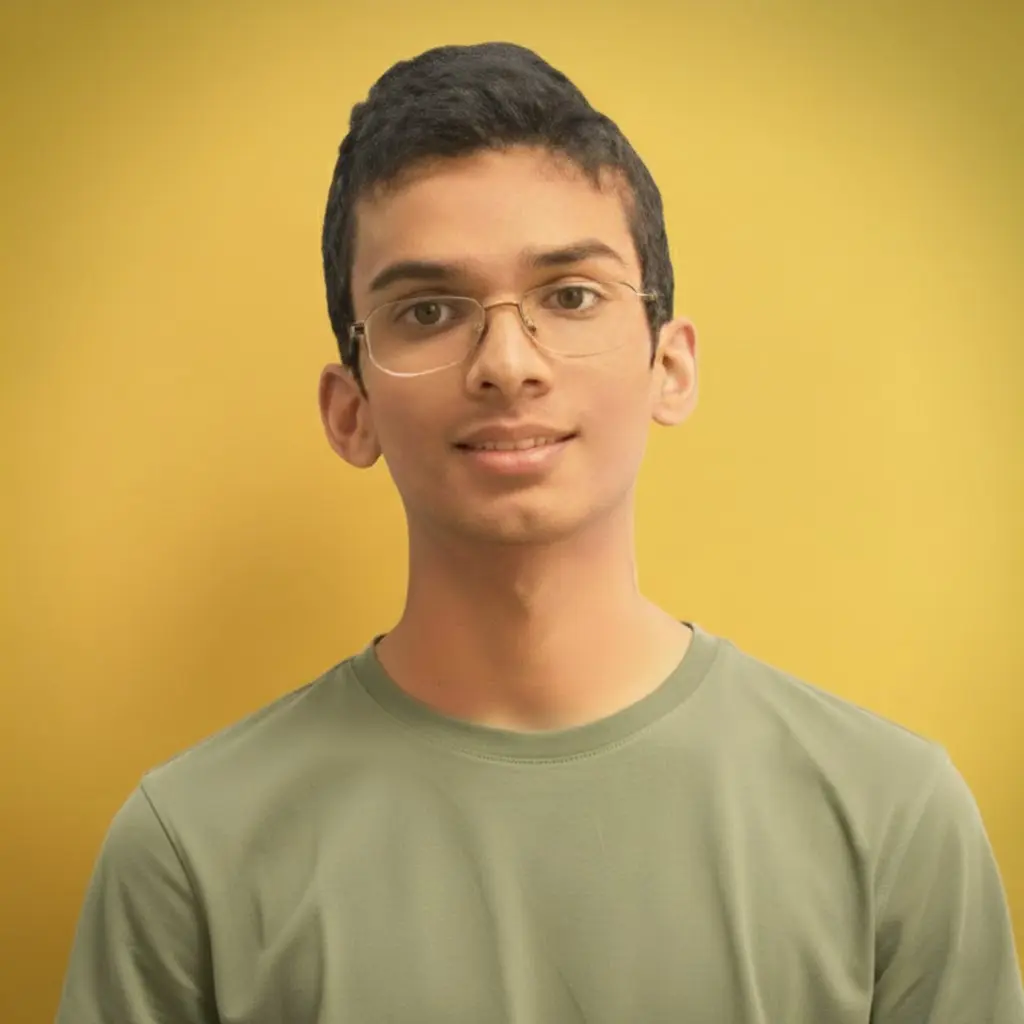
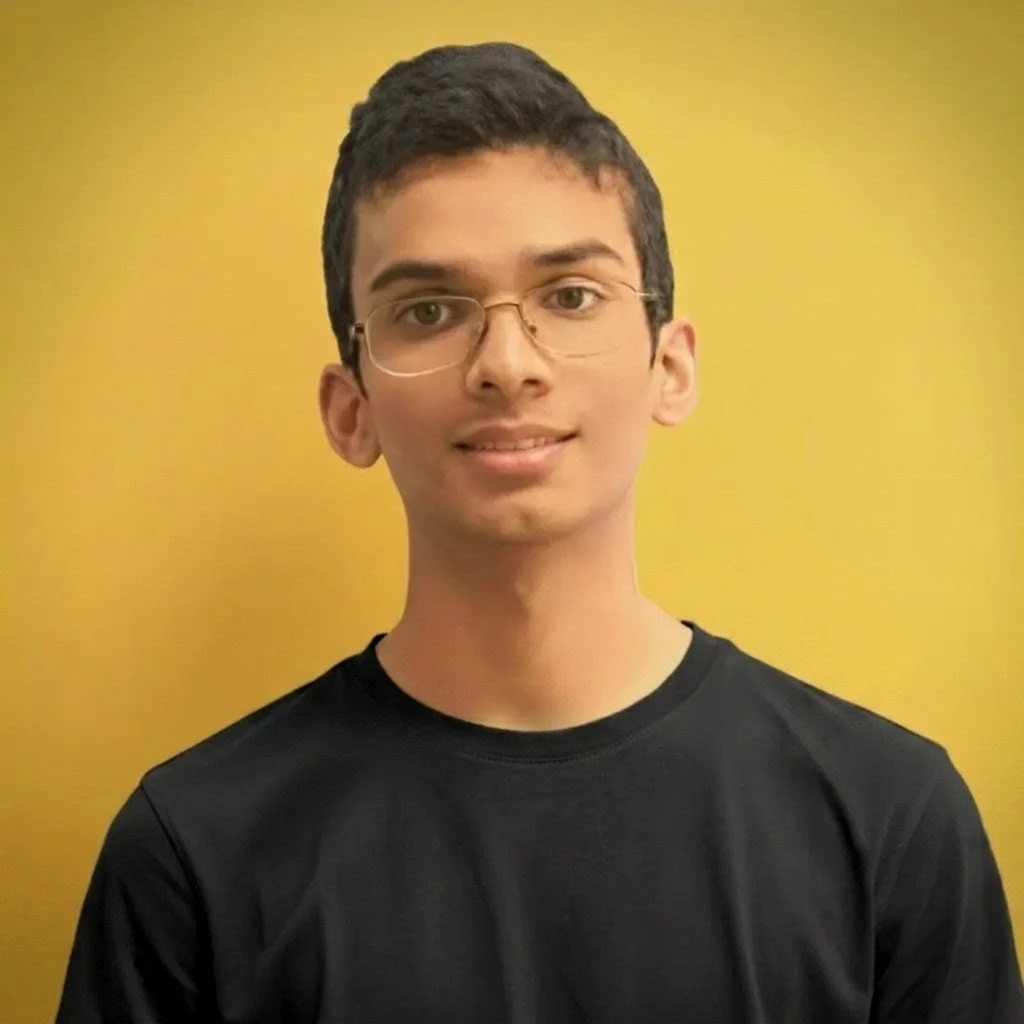
fix: the portrait links

Changed region(s): [[0.0312, 0.5938, 1.0, 1.0]]

diff --git a/public/index.html b/public/index.html
@@ -10,14 +10,14 @@
     <meta name="robots" content="index, follow">
     <meta property="og:title" content="Chemitha Sathsilu - Founder, Entrepreneur, AI Engineer & Web Developer">
     <meta property="og:description" content="Explore the portfolio of Chemitha Sathsilu, featuring AI-powered web applications and innovative projects.">
-    <meta property="og:image" content="https://chemithasathsilu.onrender.com/assets/images/chemitha-portrait.jpg">
+    <meta property="og:image" content="https://chemithasathsilu.onrender.com/assets/images/chemitha-portrait.webp">
     <meta property="og:url" content="https://chemithasathsilu.onrender.com/">
     <meta property="og:type" content="website">
     <meta property="og:site_name" content="Chemitha Sathsilu Portfolio">
     <meta name="twitter:card" content="summary_large_image">
     <meta name="twitter:title" content="Chemitha Sathsilu - AI Engineer & Web Developer">
     <meta name="twitter:description" content="Discover the work of Chemitha Sathsilu, an AI Engineer and Web Developer, through innovative projects and applications.">
-    <meta name="twitter:image" content="https://chemithasathsilu.onrender.com/assets/images/chemitha-portrait.jpg">
+    <meta name="twitter:image" content="https://chemithasathsilu.onrender.com/assets/images/chemitha-portrait.webp">
     <meta name="google-site-verification" content="w1sG26lUndN09qfc-P6BArsq213vYcUhDYlCvr2I0wM" />
   <link rel="canonical" href="https://chemithasathsilu.onrender.com/" />
   <title>Chemitha Sathsilu | Portfolio</title>
